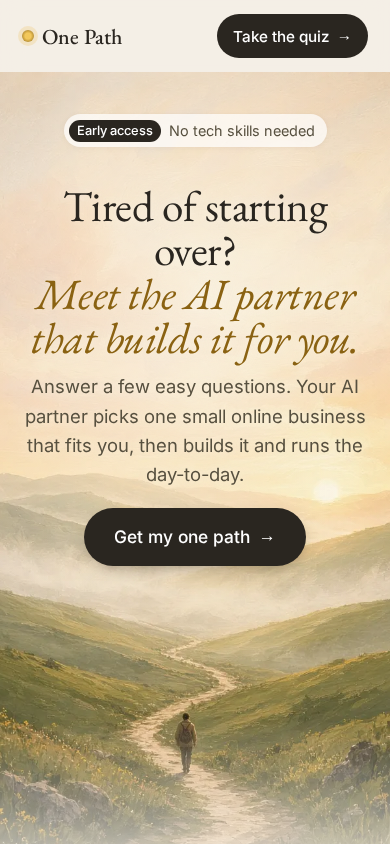
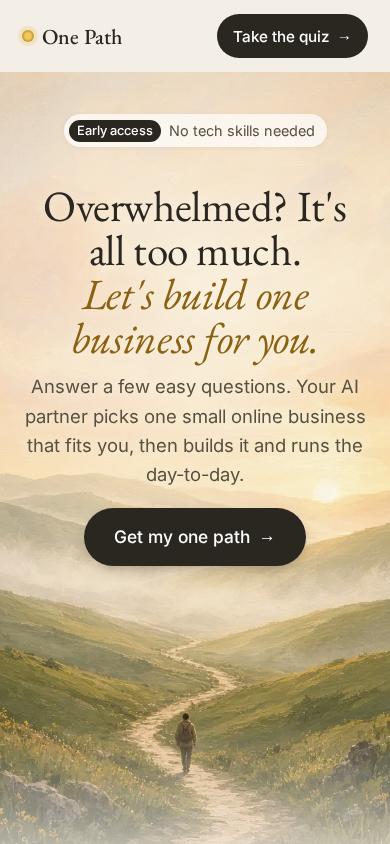
Pain-relief headline

Changed region(s): [[0.0615, 0.2156, 0.9231, 0.4313]]

diff --git a/index.html b/index.html
@@ -13,7 +13,7 @@
 <main>
 <section class="hero"><picture class="heroimg" aria-hidden="true"><source media="(max-width:759px)" srcset="img/hero-tall.webp"><img src="img/hero-wide.webp" alt="" fetchpriority="high"></picture><div class="wrap fade">
   <p class="tag"><b>Early access</b> No tech skills needed</p>
-  <h1>Tired of starting over?<br><em>Meet the AI partner that builds it for you.</em></h1>
+  <h1>Overwhelmed? It's all too much.<br><em>Let's build one business for you.</em></h1>
   <p class="sub">Answer a few easy questions. Your AI partner picks one small online business that fits you, then builds it and runs the day-to-day.</p>
   <a href="#quiz" class="btn">Get my one path <span>→</span></a>
   <ul class="reassure"><li>Free</li><li>Takes about 5 minutes</li><li>Go back anytime</li><li>You can't break anything</li></ul>
